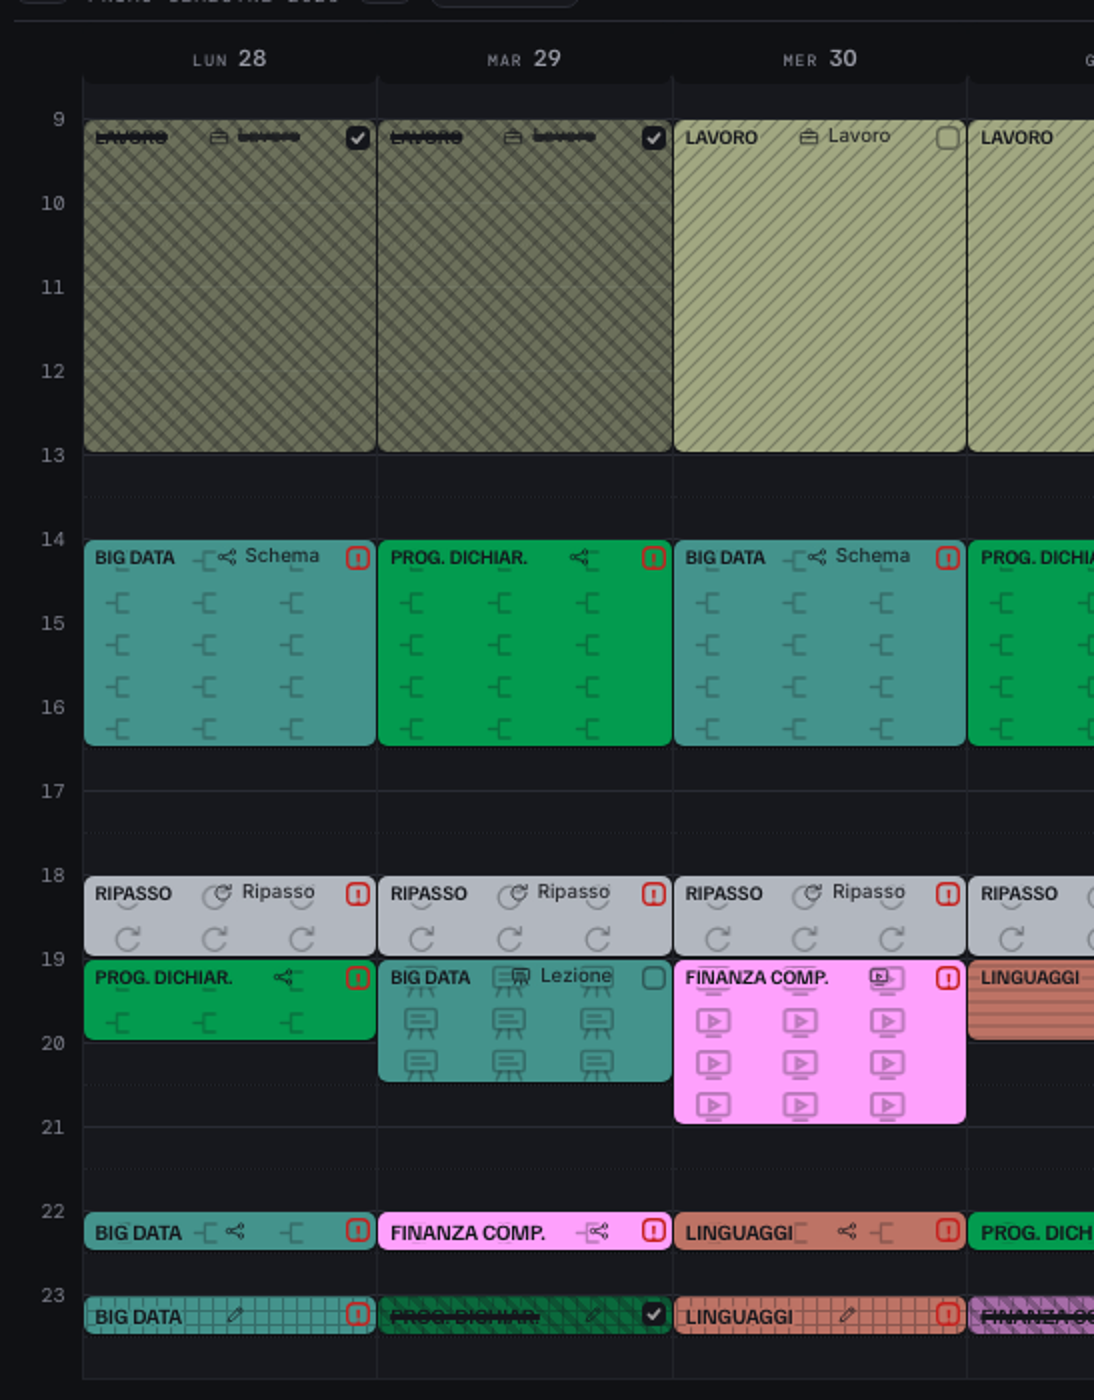
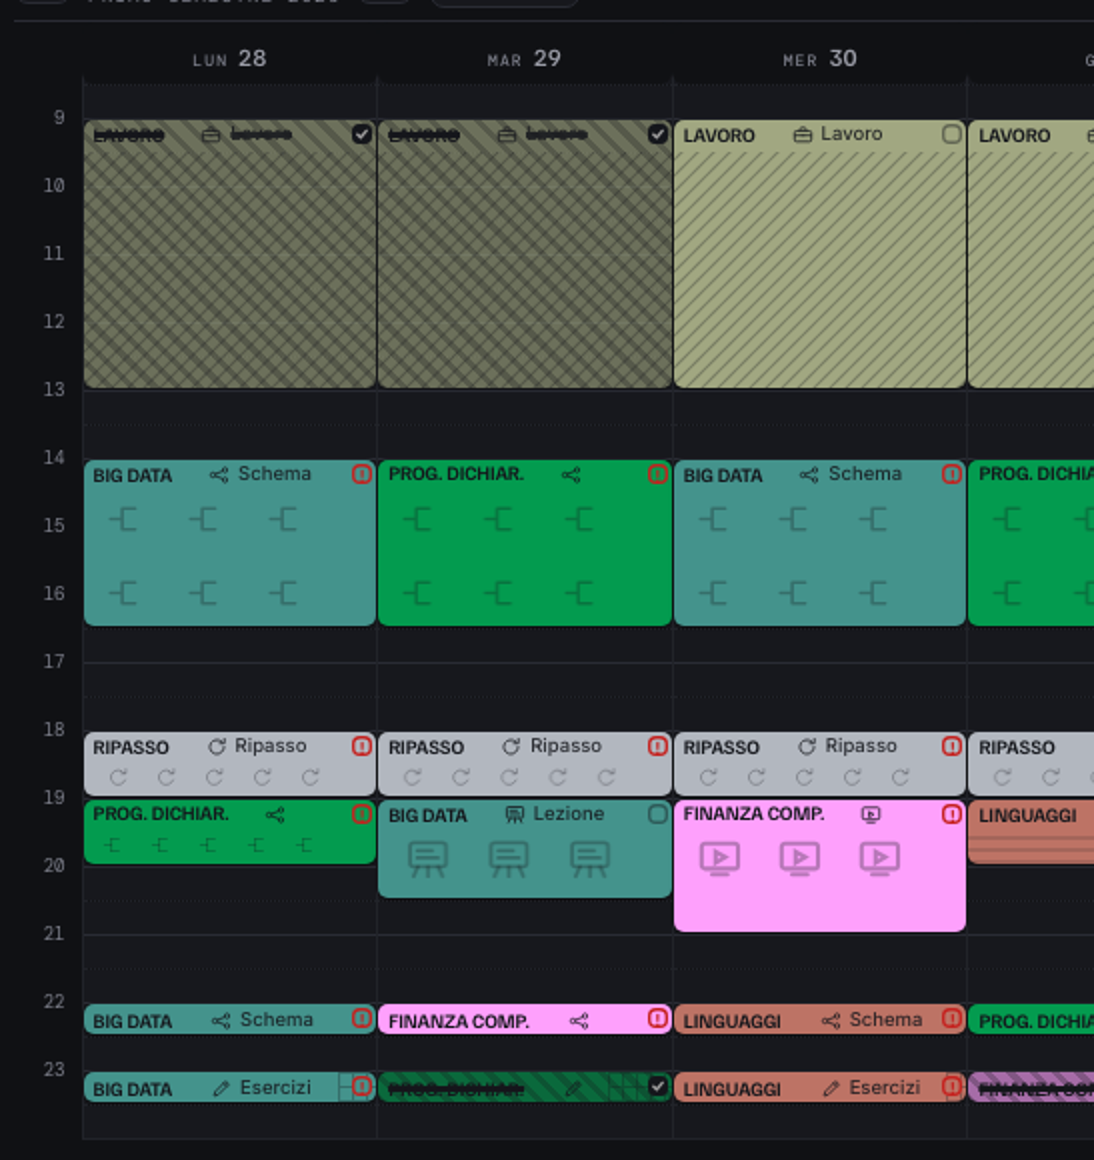
Figure grandi dove le scritte non ci sono
Dietro alle scritte le figure facevano "un casino", e legate all'altezza
della mezz'ora su una finestra bassa restavano piccole. Ora hanno una
misura loro, grande (fino a 22 pixel, meno solo se la colonna e' stretta),
la stessa in tutta la griglia, e stanno dove le scritte non ci sono:
sotto il titolo nei blocchi lunghi, a file e colonne regolari; a destra
del titolo nelle mezz'ore, se c'e' posto. Nei blocchi da un'ora, sotto il
titolo, una fila un po' piu' piccola. Via il bordo intorno alle scritte.

diff --git a/index.html b/index.html
@@ -573,12 +573,10 @@ tbody tr:last-child td.c{border-bottom:1px solid var(--line-soft)}
    figura dell'angolo spuntava a pezzi intorno al quadratino (3 ottobre: "piccole
    sbavature ad inizio slot in alto a destra"). La stessa misura per tutte le
    file, cosi' restano uguali. */
-.blk em span.tr.tutto{position:absolute;inset:0 22px 0 6px;margin:0;flex:none;z-index:-1;min-width:0}
-.blk em span.tr.tutto.tessuto{inset:0}
-/* le scritte sopra le figure: un bordo del colore del blocco le stacca,
-   come nel lavoro dove la trama passa sotto senza disturbare */
-.blk em b,.blk em s i,.blk em u.nota{-webkit-text-stroke:3px var(--bc);paint-order:stroke fill}
-.blk em s .ico{filter:drop-shadow(0 0 1.5px var(--bc)) drop-shadow(0 0 1.5px var(--bc))}
+.blk em span.tr.tutto{position:absolute;top:0;bottom:3px;left:6px;right:22px;margin:0;flex:none;z-index:-1;min-width:0}
+.blk em span.tr.tutto.tessuto{left:0;right:0;bottom:0}
+.blk.mini em span.tr.tutto{bottom:0}
+
 .blk.mini em span.tr.tutto{display:block}
 /* Le scritte hanno un bordo pieno del colore del blocco: dove passano sopra
    una figura la coprono quanto basta a leggerle, e la figura resta al suo
@@ -1876,7 +1874,7 @@ const SWATCHES=["#6E8BFF","#8FA4E8","#5FA8D3","#4A8FBE","#63C2C2","#4EA5A5",
    scritta nel pannello Backup: quando "mi fa ancora lo stesso" la prima
    domanda e' se il browser sta mostrando il file nuovo o uno vecchio in
    memoria — e senza questo nessuno dei due puo' rispondere. */
-const VERSIONE="4 ott 2026 · a";
+const VERSIONE="4 ott 2026 · b";
 const KEY="piano-6272-v5";
 let state={v:8,theme:"dark",piano:"LM18",year:1,ctx:"1",from:0,to:6,span:7,dayStart:0,act:"LEZ",brush:null,erase:false,
            exams:[],over:{},q:"",collapsed:{},dayClip:null,semOpen:false,blockClip:null,
@@ -5343,34 +5341,74 @@ function motivi(root){
     const i=x.ss.querySelector("i");if(i)i.remove();
     if(x.stretto())x.ss.remove();
   });
-  bl.forEach(o=>{if(o.f){o.f.classList.add("tutto");o.f.style.flex="";o.f.style.marginTop="";o.f.style.top="";o.f.style.backgroundImage="";}});
-  /* Dal 4 ottobre il motivo fa come quello del lavoro, che ti piace: copre
-     tutto il blocco, dall'alto, anche la mezz'ora del titolo e i blocchi da
-     una mezz'ora sola, leggero come una filigrana dietro alle scritte. Le
-     figure sono grandi quasi quanto la mezz'ora, una fila per mezz'ora, tutte
-     della stessa misura: "troppo piccoli". */
+  bl.forEach(o=>{if(o.f){o.f.classList.add("tutto");o.f.style.flex="";o.f.style.marginTop="";o.f.style.top="";o.f.style.left="";o.f.style.backgroundImage="";}});
+  /* 4 ottobre, seconda volta: dietro alle scritte le figure facevano "un
+     casino", e legate all'altezza della mezz'ora su una finestra bassa
+     restavano piccole. Ora le figure hanno una misura loro, grande, uguale in
+     tutta la griglia, e stanno dove le scritte non ci sono: sotto il titolo
+     nei blocchi lunghi, a destra del titolo nelle mezz'ore. Riempiono lo
+     spazio come la trama del lavoro, a file e colonne regolari. */
+  const colW=Math.min(...bl.map(o=>o.f?o.f.getBoundingClientRect().width:999).filter(x=>x>40),999);
+  const FG=figGrande(colW);
   bl.forEach(o=>{
     const r=o.b.getBoundingClientRect(),w=r.width,h=r.height;
     const [tw,th,figura]=o.d,a=o.b.dataset.att;
     if(!(w>3&&h>3)){ripiego(o);return;}
-    if(o.f){o.f.style.top="0px";o.f.classList.toggle("tessuto",!figura);}
-    if(!figura){
-      /* i tessuti — righe, quadretti, punti — come nel lavoro: a misura
-         naturale, dall'angolo, su tutto il blocco */
-      o.b.style.setProperty("--trs",tw+"px "+th+"px");
-      o.b.style.setProperty("--trr","repeat");
-      o.b.style.setProperty("--trp","0 0");
+    if(!o.f){o.b.style.setProperty("--tr","none");return;}      /* mezz'ora con la nota */
+    const fr=o.f.getBoundingClientRect();
+    const mini=o.b.classList.contains("mini");
+    o.f.classList.toggle("tessuto",!figura);
+    if(mini){
+      /* a destra delle scritte, alte quanto la striscia lascia */
+      const em=o.f.parentNode;let fine=fr.left;
+      em.querySelectorAll(":scope > b, :scope > s").forEach(e=>{const q=e.getBoundingClientRect();if(q.width)fine=Math.max(fine,q.right);});
+      const x0=Math.ceil(fine-fr.left+6);
+      o.f.style.left=(x0+6)+"px";o.f.style.top="0px";
+      const lib=fr.width-x0;
+      if(!figura){
+        if(lib<12){o.f.style.backgroundImage="none";return;}
+        o.b.style.setProperty("--trs",tw+"px "+th+"px");
+        o.b.style.setProperty("--trr","repeat");o.b.style.setProperty("--trp","0 0");return;
+      }
+      const F=Math.min(FG,Math.floor(h)-3),FW=F*tw/th,cw=Math.ceil(FW*1.35);
+      if(F<9||lib<FW+2){o.f.style.backgroundImage="none";o.b.style.setProperty("--trr","no-repeat");return;}
+      o.b.dataset.fig=F;
+      o.b.style.setProperty("--tr",cella(a,cw,Math.floor(h),F));
+      o.b.style.setProperty("--trs",cw+"px "+Math.floor(h)+"px");
+      o.b.style.setProperty("--trr",lib>=cw*2?"space no-repeat":"no-repeat");
+      o.b.style.setProperty("--trp","0 50%");
       return;
     }
-    const {FW}=figMisura(o.d);
-    const wf=o.f?o.f.getBoundingClientRect().width:w-28;
-    if(wf<FW+2){ripiego(o);return;}
-    const CW=Math.min(Math.floor(wf),cellaW());
-    o.b.style.setProperty("--tr",cella(a,CW,ROW));
-    o.b.style.setProperty("--trs",CW+"px "+ROW+"px");
-    o.b.style.setProperty("--trr","space repeat");
+    /* sotto il titolo */
+    const top0=r.top,y0=Math.ceil(fondoTitolo(o.f.parentNode,top0)+3);
+    o.f.style.left="";o.f.style.top=y0+"px";
+    const hb=h-y0-3;                 /* la fascia si ferma tre pixel sopra il fondo */
+    if(!figura){
+      if(hb<4){o.f.style.backgroundImage="none";return;}
+      o.b.style.setProperty("--trs",tw+"px "+th+"px");
+      o.b.style.setProperty("--trr","repeat");o.b.style.setProperty("--trp","0 0");return;
+    }
+    /* sotto il titolo di un blocco da un'ora resta poco: li' una fila sola,
+       un po' piu' piccola, ma mai sotto i nove pixel */
+    const F=hb>=FG+1?FG:Math.floor(hb-1),FW=F*tw/th,CW=Math.round(cellaG(FG)*F/FG),CH=hb>=FG+1?F+6:Math.floor(hb);
+    if(F<9||fr.width<FW+2){o.f.style.backgroundImage="none";o.b.style.setProperty("--trr","no-repeat");return;}
+    o.b.dataset.fig=F;
+    o.b.style.setProperty("--tr",cella(a,Math.min(CW,Math.floor(fr.width)),CH,F));
+    o.b.style.setProperty("--trs",Math.min(CW,Math.floor(fr.width))+"px "+CH+"px");
+    o.b.style.setProperty("--trr",hb>=CH*2?"space space":"space no-repeat");
     o.b.style.setProperty("--trp","0 0");
   });
+}
+/* La misura delle figure grandi: venti pixel, o meno se la colonna e'
+   stretta — in una colonna ne devono stare almeno tre per fila. */
+function figGrande(colW){
+  let maxR=0;Object.keys(TRDIM).forEach(a=>{const d=TRDIM[a];if(d[2])maxR=Math.max(maxR,d[0]/d[1]);});
+  const daCol=Math.floor((colW)/(3*1.3*maxR));
+  return Math.max(10,Math.min(22,daCol));
+}
+function cellaG(F){
+  let maxR=0;Object.keys(TRDIM).forEach(a=>{const d=TRDIM[a];if(d[2])maxR=Math.max(maxR,d[0]/d[1]);});
+  return Math.round(F*maxR*1.3);
 }
 /* Dove finiscono le scritte: conta il nome della materia (e la nota, se
    c'e'), non l'icona accanto. L'icona alza la riga di un pixel o due, e a

diff --git a/test/suite.js b/test/suite.js
@@ -418,7 +418,8 @@
         mal.push(b.dataset.att+" "+(r.height/n[1]).toFixed(2)+" file in verticale");
       /* le figure stanno al centro di una casella piu' grande: conta la
          figura, non la casella */
-      var fh=d[2]?figMisura(d).F:n[1],fw=d[2]?figMisura(d).FW:n[0];
+      var F0=+b.dataset.fig||figMisura(d).F;
+      var fh=d[2]?F0:n[1],fw=d[2]?F0*d[0]/d[1]:n[0];
       var rb=b.getBoundingClientRect();
       if(fh>Math.min(r.height,rb.height)+.6)
         mal.push(b.dataset.att+" alta "+fh.toFixed(1)+" in "+Math.round(Math.min(r.height,rb.height)));
@@ -1556,7 +1557,7 @@
   t("i motivi hanno tutti la stessa misura, e una fila per ogni mezz'ora",function(){
     pulisci();apri();
     var A=["SCH","LEZ","VID","RIP","NAS"];
-    for(var g=0;g<5;g++){placeRun(G[g],H0+2,{i:it[g%3].id,a:A[g],len:3},0);placeRun(G[g],H0+8,{i:it[g%3].id,a:A[(g+1)%5],len:5},0);}
+    for(var g=0;g<5;g++){placeRun(G[g],H0+2,{i:it[g%3].id,a:A[g],len:3},0);placeRun(G[g],H0+8,{i:it[g%3].id,a:A[(g+1)%5],len:8},0);}
     render();
     var misure={},file={},guai=[];
     document.querySelectorAll(".blk[data-att]").forEach(function(b){
@@ -1564,17 +1565,19 @@
       var r=runAt(b.dataset.date,+b.dataset.start,+b.dataset.lane),f=b.querySelector("em > span.tr");
       if(!f||f.style.display==="none")return;
       misure[getComputedStyle(b).getPropertyValue("--trs").trim()]=1;
-      var n=Math.round(f.getBoundingClientRect().height/ROW);
+      var ts=getComputedStyle(b).getPropertyValue("--trs").trim().split(/\s+/).map(parseFloat);
+      var n=Math.max(1,Math.floor((f.getBoundingClientRect().height+0.5)/ts[1]));
       (file[r.len]=file[r.len]||{})[n]=1;
     });
     var m=Object.keys(misure);
-    if(m.length!==1)return "misure diverse: "+m.join(" | ");
+    /* la misura grande e' una sola; piu' piccola solo dove sotto il titolo
+       non c'e' posto per lei (i blocchi corti) */
+    if(m.length>2)return "misure diverse: "+m.join(" | ");
     var lunghe=Object.keys(file);
     for(var i=0;i<lunghe.length;i++)if(Object.keys(file[lunghe[i]]).length!==1)guai.push(lunghe[i]+" mezz'ore: "+Object.keys(file[lunghe[i]]).join(" o ")+" file");
     if(guai.length)return guai.join(" · ");
-    /* una fila per ogni mezz'ora sotto il titolo: due mezz'ore in piu', due
-       file in piu' */
-    return (file[5]&&file[3]&&+Object.keys(file[5])[0]-+Object.keys(file[3])[0]===2)?true:
+    /* piu' mezz'ore, piu' file */
+    return (file[8]&&file[3]&&+Object.keys(file[8])[0]>+Object.keys(file[3])[0])?true:
       "le file non sono una per mezz'ora: "+JSON.stringify(file);});
   /* 3 ottobre: "se salto la pausa deve essere considerata come tempo fatto" */
   t("saltare la pausa conta la pausa intera, nel registro e nelle mezz'ore",function(){
@@ -1772,23 +1775,23 @@
 
 
   /* ---------- il motivo si deve vedere ---------- */
-  t("a mezz'ora la fascia del motivo è larga almeno trenta pixel",function(){
+  /* 4 ottobre: le figure stanno dove le scritte non ci sono. Nella mezz'ora
+     a destra del titolo, mai sotto le lettere. */
+  t("a mezz'ora il motivo non passa sotto le scritte",function(){
     pulisci();apri();
     var lungo=items().filter(function(x){return /dichiar/i.test(x.name||"");})[0]||it[2];
     state.span=7;state.from=0;state.to=6;applySpan();
     var G7=[];document.querySelectorAll("td.c").forEach(function(x){
       if(G7.indexOf(x.dataset.date)<0)G7.push(x.dataset.date);});
-    G7.slice(0,5).forEach(function(d){
-      placeRun(d,HOURS[6],{i:lungo.id,a:"SCH",len:1},0);});
+    G7.slice(0,5).forEach(function(d,k){
+      placeRun(d,HOURS[6],{i:(k%2?lungo:it[0]).id,a:"SCH",len:1},0);});
     render();
-    /* in proporzione, non in pixel: su una colonna da settantotto trenta pixel
-       non ci sono, e il controllo direbbe una cosa falsa */
-    var q=[].map.call(document.querySelectorAll(".blk.mini"),function(b){
-      var tr=b.querySelector("span.tr");if(!tr)return 100;
-      return Math.round(tr.getBoundingClientRect().width/b.getBoundingClientRect().width*100);});
-    if(!q.length)return "nessun blocco da mezz'ora";
-    var min=Math.min.apply(null,q);
-    return min>=20?true:"il motivo occupa solo il "+min+"% della larghezza (prima era il 7%)";});
+    var male=[].filter.call(document.querySelectorAll(".blk.mini"),function(b){
+      var tr=b.querySelector("span.tr");if(!tr||getComputedStyle(tr).backgroundImage==="none")return false;
+      var R=tr.getBoundingClientRect(),fine=0;
+      b.querySelectorAll("em > b, em > s").forEach(function(e){var q=e.getBoundingClientRect();if(q.width)fine=Math.max(fine,q.right);});
+      return R.left<fine-0.5;});
+    return male.length?male.length+" mezz'ore col motivo sotto le scritte":true;});
   t("a un'ora la fascia del motivo è alta almeno ventidue pixel",function(){
     pulisci();apri();
     var lungo=items().filter(function(x){return /dichiar/i.test(x.name||"");})[0]||it[2];
